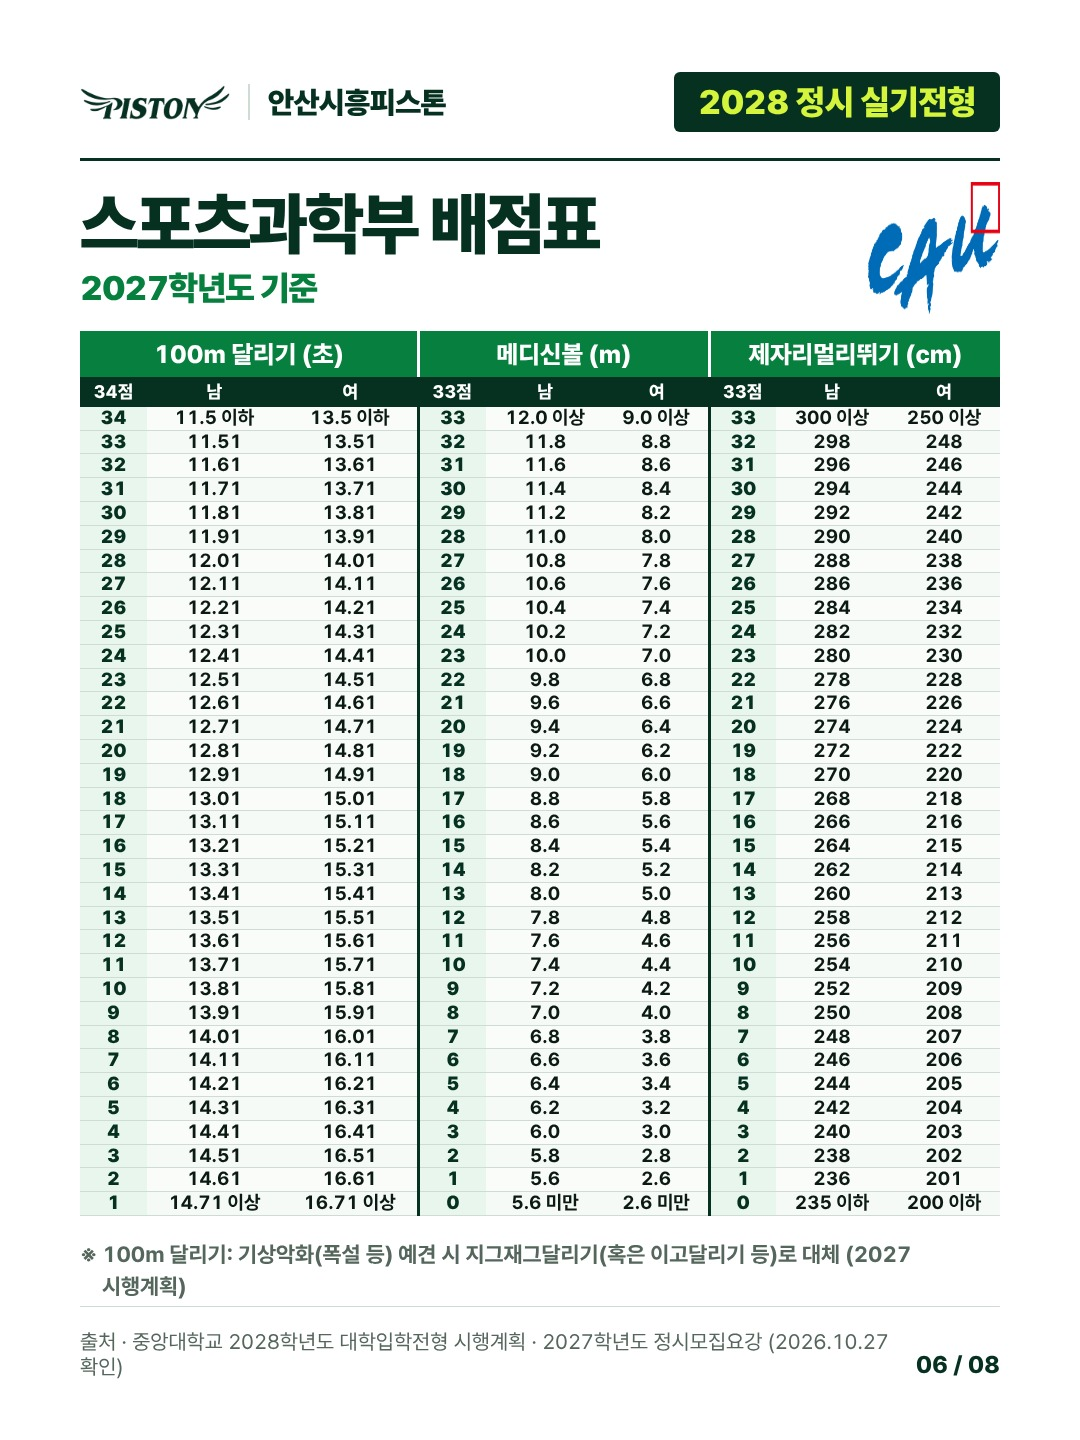
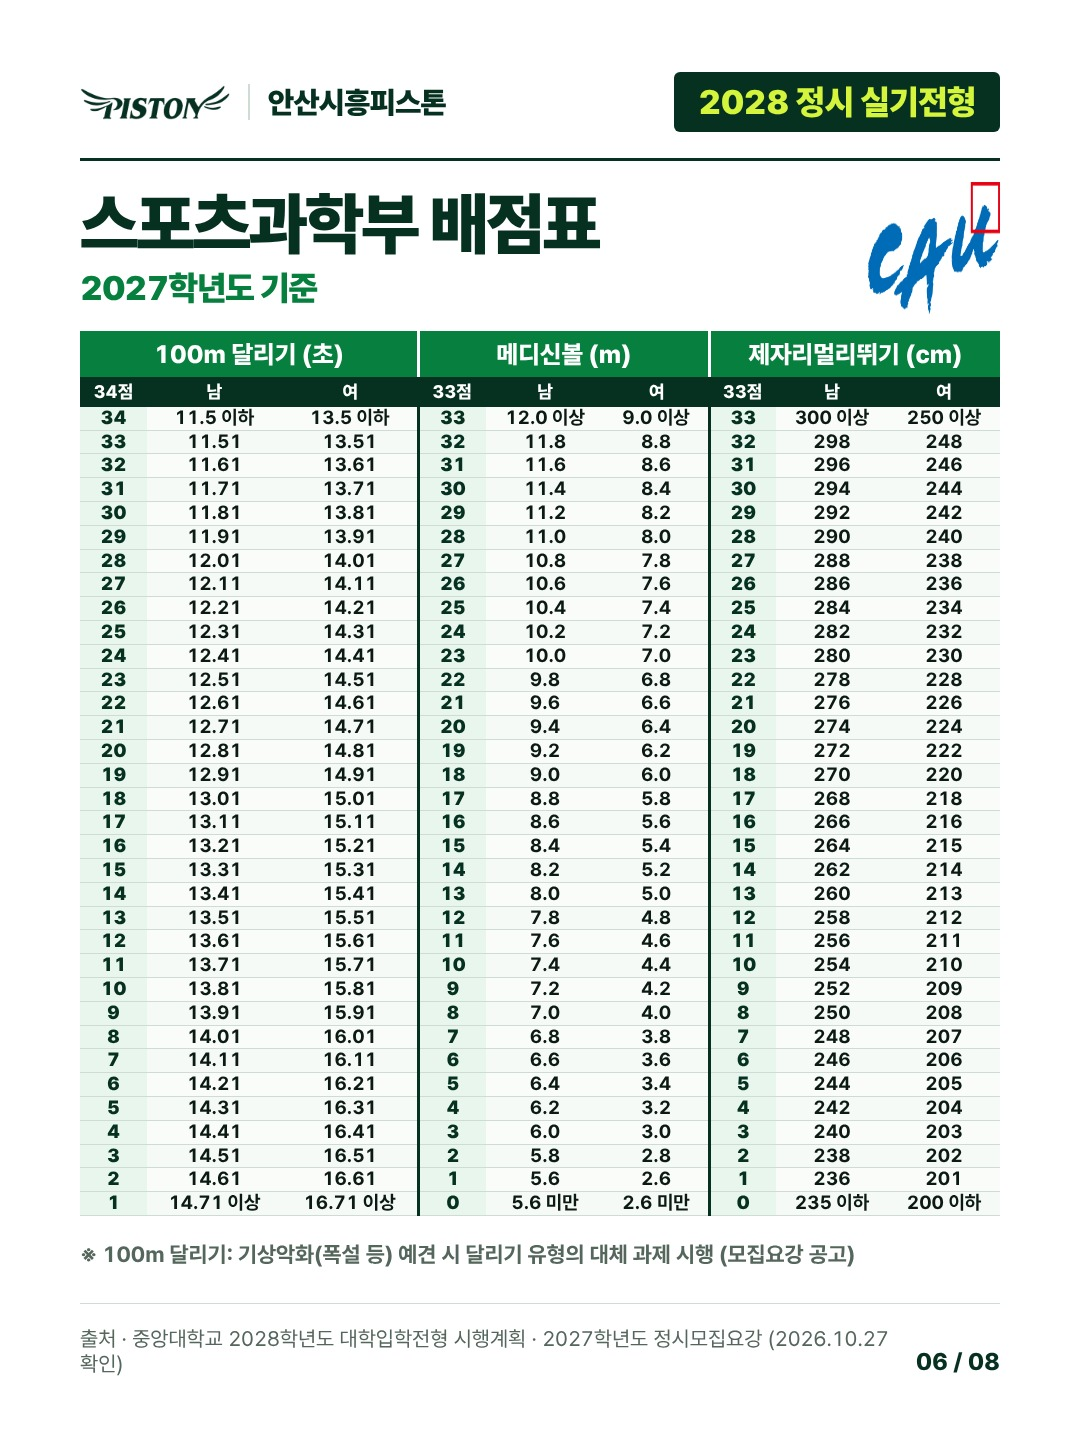
cau: 100m 대체과제 2028 계획안 문구 반영
Claude-Session: https://claude.ai/code/session_01EGTn7G8nWP1yv5M2jqmoFb

Changed region(s): [[0.0611, 0.875, 0.825, 0.9688], [0.4278, 0.8438, 0.825, 0.875], [0.8556, 0.9375, 0.9472, 0.9688]]

diff --git a/social/out/cau-jeongsi-jeongsi/blog.md b/social/out/cau-jeongsi-jeongsi/blog.md
@@ -33,7 +33,7 @@
 ※ 수능최저 없음 · 수학·과탐 미반영 · 한국사 가산점 · 제2외국어/한문 미반영
 ※ 실기 배점 비율은 2027 정시모집요강 기준 (2028 계획안은 종목명만 기재)
 ※ * 탐구 2과목은 2027 정시모집요강 기준 · 2028 계획안은 과목 수 미기재
-※ 100m 달리기는 기상악화(폭설 등) 시 지그재그달리기(혹은 이고달리기 등)로 대체 가능 (2027 시행계획)
+※ 100m 달리기는 기상악화(폭설 등) 예견 시 달리기 유형의 대체 과제 시행 (대체 과제는 모집요강 공고 · 2027은 지그재그달리기 등)
 
 [이미지: post-4.jpg]
 
@@ -93,7 +93,7 @@
 | 2 | 14.61 | 16.61 | 1 | 5.6 | 2.6 | 1 | 236 | 201 |
 | 1 | 14.71 이상 | 16.71 이상 | 0 | 5.6 미만 | 2.6 미만 | 0 | 235 이하 | 200 이하 |
 
-※ 100m 달리기: 기상악화(폭설 등) 예견 시 지그재그달리기(혹은 이고달리기 등)로 대체 (2027 시행계획)
+※ 100m 달리기: 기상악화(폭설 등) 예견 시 달리기 유형의 대체 과제 시행 (모집요강 공고)
 
 [이미지: post-6.jpg]
 
